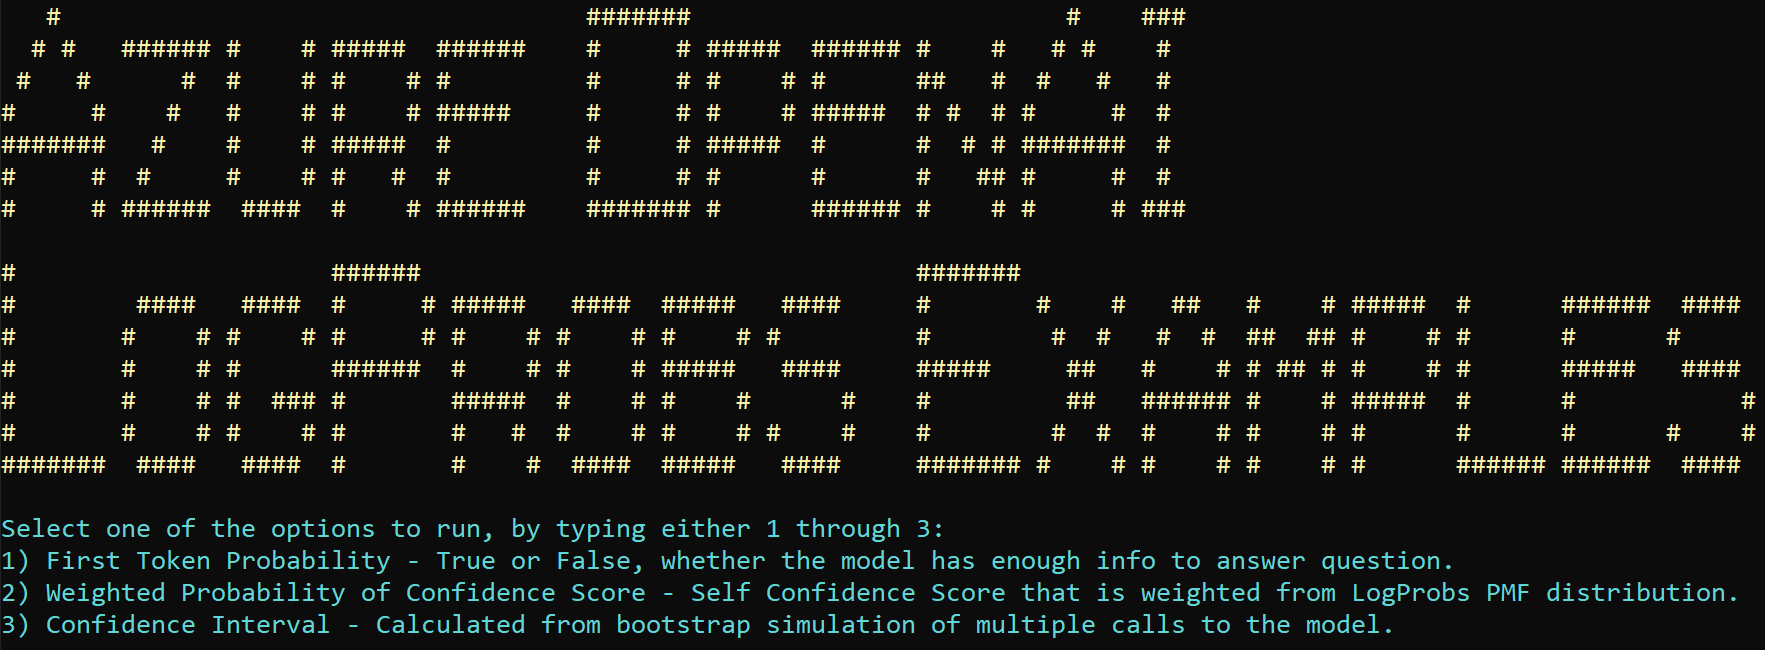
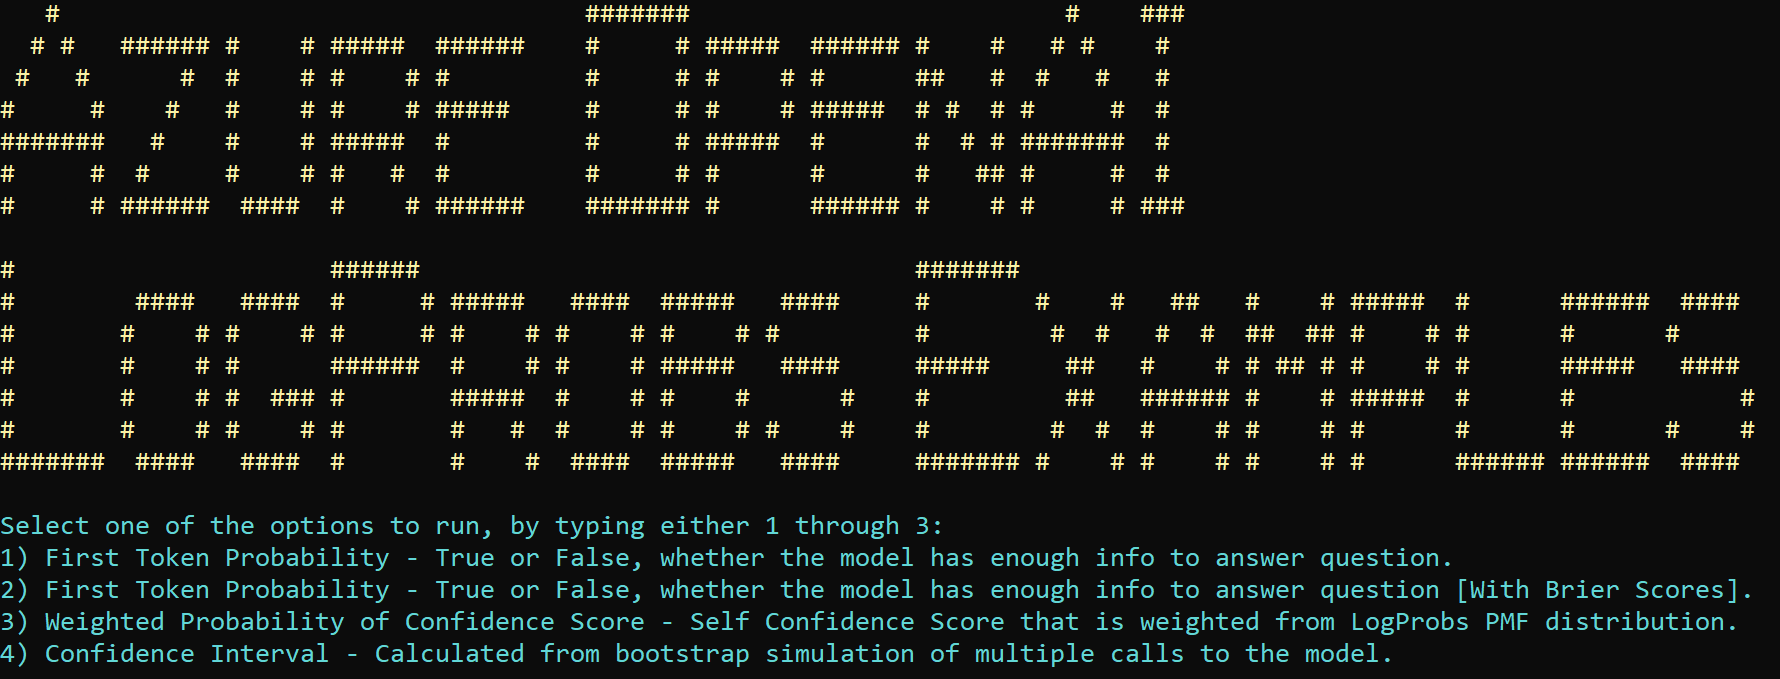
Added Brier Score to the processing options

diff --git a/AzureOpenAILogProbs/Program.cs b/AzureOpenAILogProbs/Program.cs
@@ -80,7 +80,7 @@ namespace AzureOpenAILogProbs
                     Console.WriteLine(string.Empty); 
                     Console.WriteLine("Select one of the options to run, by typing either 1 through 3:");
                     Console.WriteLine("1) First Token Probability - True or False, whether the model has enough info to answer question.");
-                    Console.WriteLine("2) First Token Probability - True or False, whether the model has enough info to answer question [With Brier Score].");
+                    Console.WriteLine("2) First Token Probability - True or False, whether the model has enough info to answer question [With Brier Scores].");
                     Console.WriteLine("3) Weighted Probability of Confidence Score - Self Confidence Score that is weighted from LogProbs PMF distribution.");
                     Console.WriteLine("4) Confidence Interval - Calculated from bootstrap simulation of multiple calls to the model.");
 

diff --git a/README.md b/README.md
@@ -3,6 +3,7 @@
 ## Azure OpenAI LogProbs Examples  
    * .NET Console application that shows examples how Azure OpenAI Log Probs that can be useful for RAG implementations:
      * Calculate First Token Probability - True or False probability, determine whether the (LLM) model has enough info to answer question  
+     * Calculate First Token Probability - True or False probability, determine whether the (LLM) model has enough info to answer question [With Brier Scores]  
      * Weighted Probability of Confidence Score - Self Confidence Score that is weighted from LogProbs probability (PMF) distribution to give a better (weighted) confidence score estimate to answer a question
      * Confidence Interval - Calculated from bootstrap simulation of multiple calls to the model. This provides a 95% confidence interval (range) of plausible confidence scores. This is ideal when you need to understand a range of possibilities the model interprets rather than a single point estimate.
 
@@ -28,7 +29,7 @@ Recommended Reading on the background of Azure OpenAI LogProbs:
    * OpenAI Cookbook - LogProbs: https://cookbook.openai.com/examples/using_logprobs  
    * What are logprobs?: https://www.ignorance.ai/p/what-are-logprobs  
 
-The three examples illustrated focus on reducing hallucinations and improving the reliability of the model's responses when presented with grounding information and a question.
+The four examples illustrated focus on reducing hallucinations and improving the reliability of the model's responses when presented with grounding information and a question.
 There are several emerging techniques that use multiple calls to a model or several models to arrive at a response, conclusion or a decision.
 A plurality of ways LLMs are used in GenAI production systems is with grounding (RAG) with additional context.
 The model is asked to answer a question, reason over that information etc. However, with poor grounding, this can result in poor results.  
@@ -50,9 +51,22 @@ This is illustrated below with the diagram:
    * The probability can be used as a decision threshold for a binary classification of whether the model has enough information (RAG context) to answer the question.     
 
 Example Output:
-![Azure Log Probs](https://raw.githubusercontent.com/bartczernicki/AzureOpenAILogProbs/master/AzureOpenAILogProbs/Images/ProcessOption-FirstTokenProbability.png)  
+![Azure OpenAI Log Probs - First Token Prob](https://raw.githubusercontent.com/bartczernicki/AzureOpenAILogProbs/master/AzureOpenAILogProbs/Images/ProcessOption-FirstTokenProbability.png)  
 
-### 2) Weighted Probability of Confidence Score - Model provides a self-confidence score and then assess the probability of the confidence score
+
+### 2) First Token Probability - Calculating Brier Scores of the First Token Probability
+    * This example shows how to measure the predictive accuracy of the model.
+    * Sames as the First Token Probability, but also calculates the Brier Score for each of the probability answers.
+    * Brier scores (and similar methods in Machine Learning & Statistics) are used to measure the accuracy of probabilistic predictions.
+    * The lowethe Brier Score, the better the model is at predicting the probability of the answer response.
+    * It outputs a table of the Brier Scores for each of the questions and the average Brier Score for all the questions.
+    * Generally, average Brier Scores of 0.1 or lower are excellent, 0.1-0.2 are superior, 0.2-0.3 are adequate, and 0.2-0.35 are acceptable, and above 0.35 are poor.
+
+Example Output:
+![Azure OpenAI Log Probs - Calculated Brier Scores](https://raw.githubusercontent.com/bartczernicki/AzureOpenAILogProbs/master/AzureOpenAILogProbs/Images/AzureLogProbs-CalculatedBrierScores.png)  
+
+
+### 3) Weighted Probability of Confidence Score - Model provides a self-confidence score and then assess the probability of the confidence score
    * Azure OpenAI LogProbs can return a probability mass function (PMF) distribution of up to the next 5 tokens including their probabilities.  
    * This calculation uses multiple LogProbs to determine the "weighted" probability of the response.  
    * The weighted probability is calculated by multiplication: confidence score*probability to give a better weighted estimate of the confidence to answer the question.  
@@ -74,7 +88,7 @@ Example Output:
     <img src="https://raw.githubusercontent.com/bartczernicki/AzureOpenAILogProbs/master/AzureOpenAILogProbs/Images/AzureLogProbs-TokenProbabilityDistributionExample.png" width="500"/>
 </p>
 
-### 3) 95% Confidence Score Interval - Use the distribution of probabilities to calculate a 95% Confidence Interval (range) of plausible answers
+### 4) 95% Confidence Score Interval - Use the distribution of probabilities to calculate a 95% Confidence Interval (range) of plausible answers
    * The previous examples show a single point estimate of the confidence score. This can be misleading as the model may have multiple interpretations of the response.  
    * Azure OpenAI LogProbs can return a probability mass function (PMF) distribution of up to the next 5 tokens including their probabilities.  
    * This calculation uses multiple LogProbs to determine the "confidence interval" of the response.  
